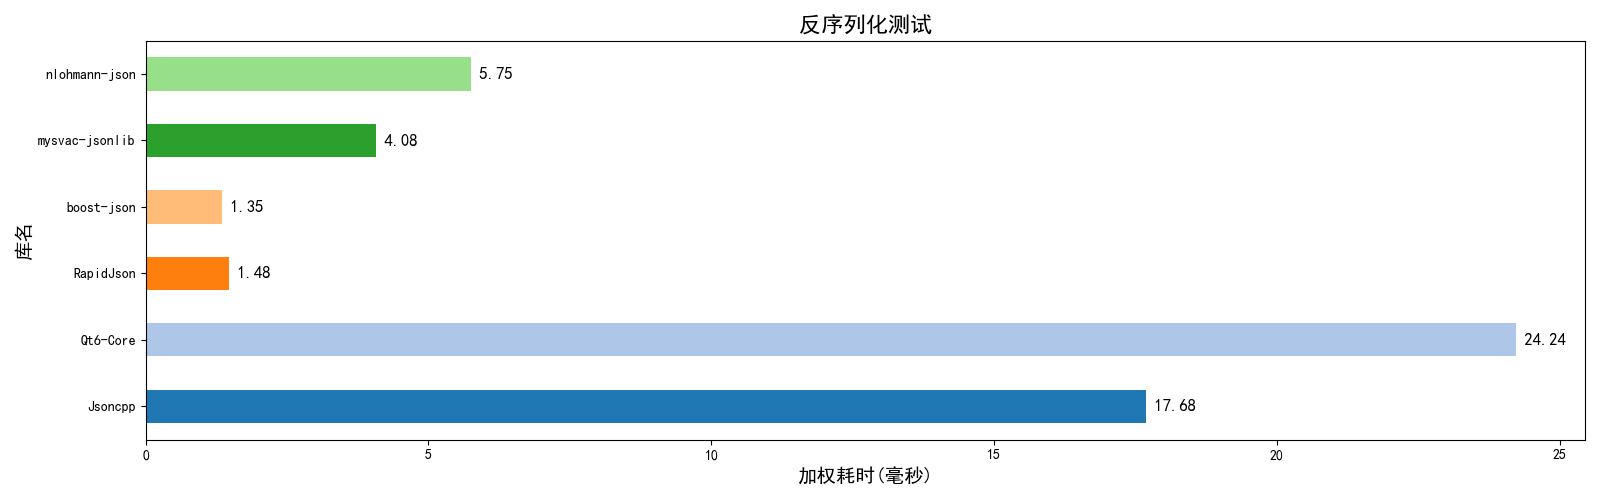
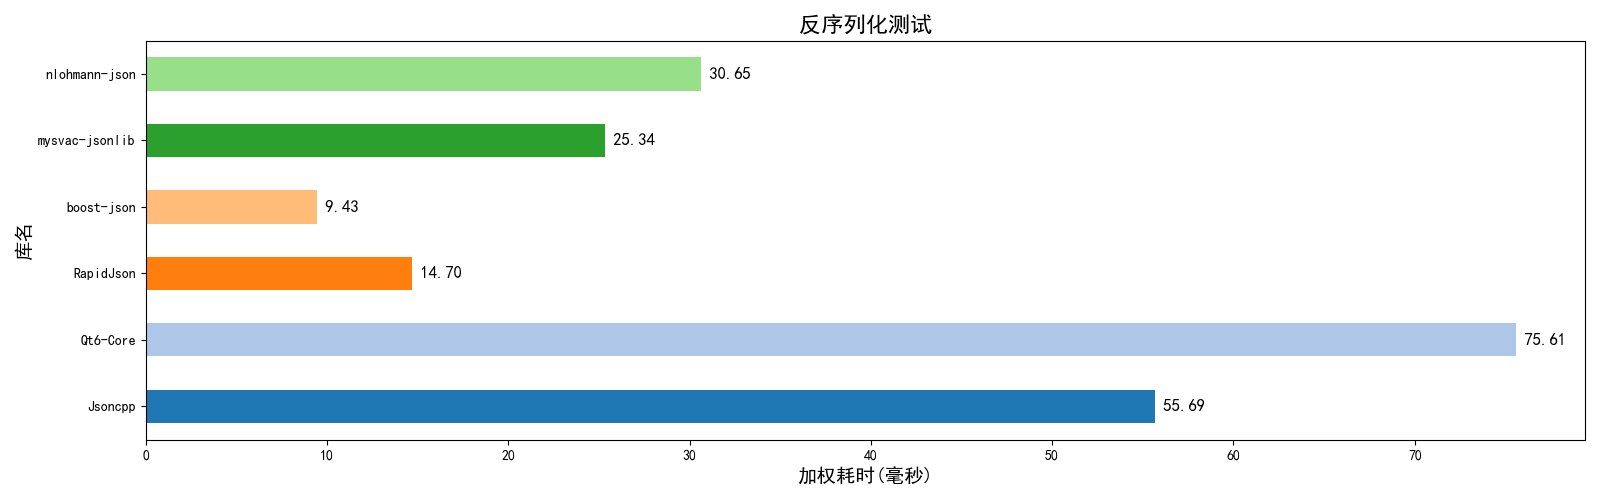
发布版本

diff --git a/result/get_chart_zh.py b/result/get_chart_zh.py
@@ -59,23 +59,23 @@ if __name__ == "__main__":
 
 
 
-    df['反序列化测试'] = (df['unserialize_1'] + 0.12 * df['unserialize_2']) / 1000.
+    df['反序列化测试'] = (df['unserialize_1'] + 0.2 * df['unserialize_2']) / 500.
     df = df.drop(columns=['unserialize_1' , 'unserialize_2', 'unserialize_3'])
 
-    df['序列化测试'] = (df['serialize_1'] + 0.12 * df['serialize_2']) / 1000.
+    df['序列化测试'] = (df['serialize_1'] + 0.2 * df['serialize_2']) / 500.
     df = df.drop(columns=['serialize_1' , 'serialize_2', 'serialize_3'])
 
-    df['美化序列化测试'] = (df['prettify_1'] + 0.12 * df['prettify_2']) / 1000.
+    df['美化序列化测试'] = (df['prettify_1'] + 0.2 * df['prettify_2']) / 500.
     df = df.drop(columns=['prettify_1' , 'prettify_2', 'prettify_3'])
 
-    df['获取子元素测试'] = df['get_child'] / 1000.
+    df['获取子元素测试'] = df['get_child'] / 250.
 
-    df['增加子元素测试'] = df['add_child'] / 1000.
+    df['增加子元素测试'] = df['add_child'] / 250.
 
-    df['删除子元素测试'] = df['delete_child'] / 1000.
+    df['删除子元素测试'] = df['delete_child'] / 250.
 
 
-    df['增删改查加权测试'] = (df['get_child'] * 0.6 + df['add_child']*0.25 + df['delete_child']*0.15 )  / 1000.
+    df['增删改查加权测试'] = (df['get_child'] * 0.6 + df['add_child']*0.25 + df['delete_child']*0.15 )  / 250.
     df = df.drop(columns=['get_child' , 'add_child', 'delete_child'])
 
     df['数值格式支持测试'] = df['double_validity'].astype(int)

diff --git a/README.md b/README.md
@@ -11,11 +11,10 @@ C++17 JSON解析库测试框架。
 
 ## 项目介绍
 ### 基本说明
-1. 框架采用C++17，框架本身仅依赖标准库和`boost-process`。
+1. 框架采用C++17，框架本身仅依赖标准库。
 2. 项目构建使用`CMake`，搭配`CMakePreset`，完全跨平台。
 3. 第三方库管理，默认使用`vcpkg`，可以自行修改`CMakePreset`调整。
-4. 内存测试依赖`boost-process`，可以修改`CMakeLists.txt`关闭内存测试，关闭后不再依赖`boost-process`。
-5. Qt测试依赖`qtbase`，库太大，默认不下载，需要自行配置库目录。 若不需要，可删除此测试和相关依赖导入。
+4. Qt测试依赖`qtbase`，库太大，默认不下载，需要自行配置库目录。 若不需要，可删除此测试和相关依赖导入。
 
 ### 工作原理概要
 ![工作方式](documents/工作方式.png)
@@ -69,16 +68,17 @@ cmake --build --preset <build-preset-name>
 2. `test_codes/`文件夹即使全删，程序依然能正常运行。不想要什么测试，删了就行。
 3. 如果删除了测试文件，记得修改`CMakeLists.txt`和`vcpkg.json`，删除项目的库依赖，不然还会下载。
 4. Qt测试默认使用本地Qt，需要自行设置CMake预设，指定位置。（`qtbase`库太大，保护大量不相关内容，不推荐vcpkg下载）。
-5. `custom-overlay/`文件夹，存放的是自定义vcpkg库目标，用于安装`mysvac-jsonlib`库，不需要的话可以删除。
+5. 如果测试QtJson，执行时需要Qt6Core.dll动态库文件，需要自己复制本地的dll文件到目标文件夹。<br>
+    `documents`文件夹下提供了Qt6Core.dll动态库文件，由于版本问题，不一定能够兼容。推荐使用自己的文件。
 
 ## 效果例图
 目前仅比较如下几个库，各有优劣（Release下）：
 1. rapidjson 操作非常繁杂，解析与操作极快，内存占用很低，性能极佳。
 2. boost-json 操作简单，现代，会抛出异常，性能极佳。 
-3. Qt 操作难度中等，值类型的直接解析 支持性较差，性能中等。
-4. jsoncpp 操作非常简单，现代，不抛出异常，性能略差。
-5. mysvac-jsonlib 操作非常简单，现代，会抛出异常，性能略差。 
-6. nlogmann-json 操作非常简单，现代，会抛出异常，性能较好。
+3. Qt 操作难度中等，值类型的直接解析 支持性较差，性能中等，修改元素较慢，库很大。
+4. mysvac-jsonlib 操作非常简单，现代，会抛出异常，性能中等，序列化较慢，库很小。 
+5. nlogmann-json 操作非常简单，现代，会抛出异常，性能中等。
+6. jsoncpp 操作非常简单，现代，不抛出异常，性能略差。
 
 ![值类型支持](documents/example_images/数值类型支持.png)
 ![深层数据支持](documents/example_images/深度数据解析测试.png)
